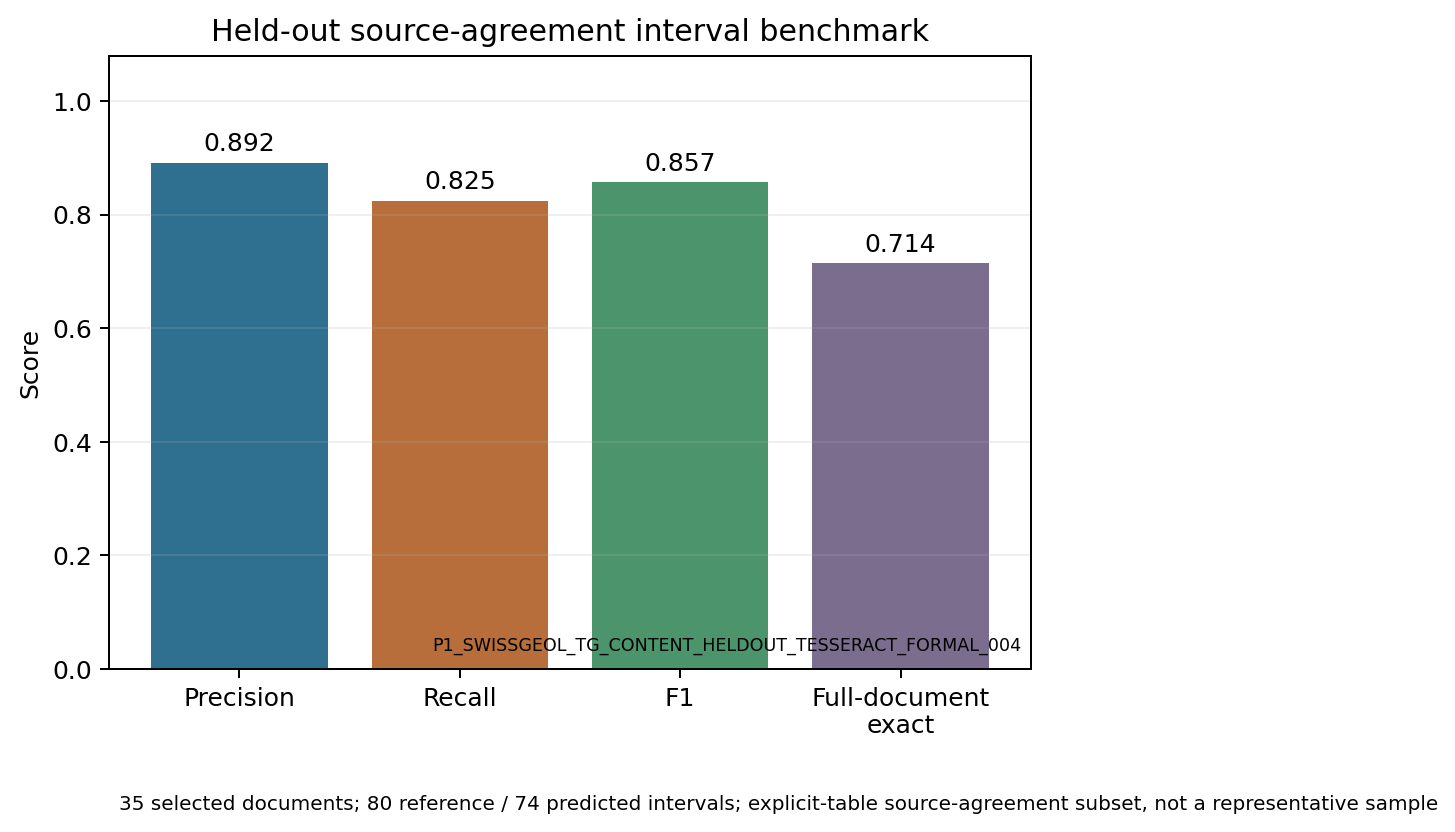
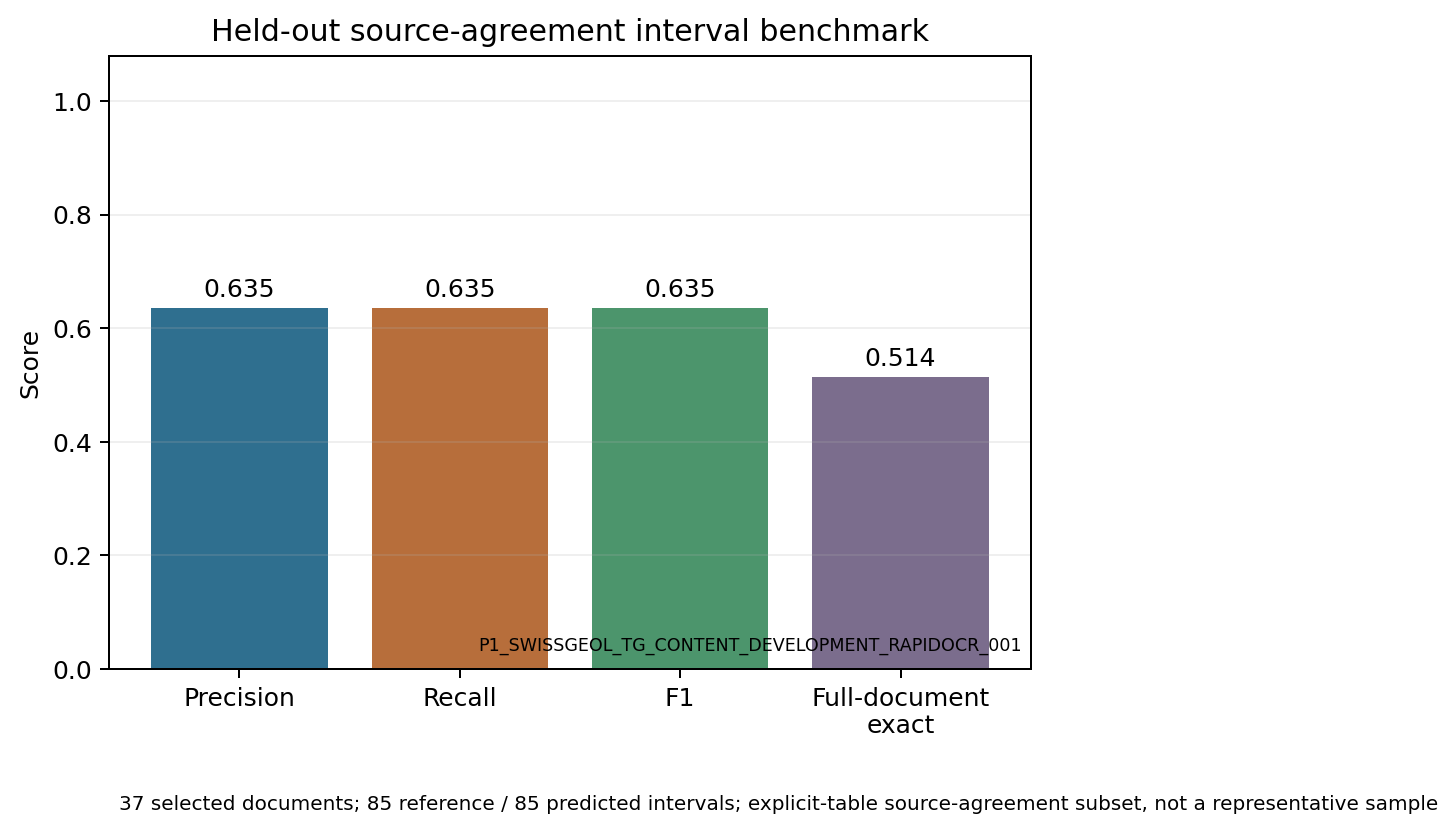
exp: add cross-backend interval and selective confidence evidence

diff --git a/src/geologparser/paper_artifacts.py b/src/geologparser/paper_artifacts.py
@@ -387,6 +387,7 @@ def paper2_table(entries: list[dict], repository_root: Path) -> str:
     authoritative_rows = []
     interval_method_rows = []
     secondary_ablation_rows = []
+    selective_rows = []
     for entry in entries:
         metrics = json.loads((repository_root / entry["result_path"] / "metrics.json").read_text())
         if metrics.get("scope") == "authoritative-metadata consensus/abstention evaluation":
@@ -427,6 +428,20 @@ def paper2_table(entries: list[dict], repository_root: Path) -> str:
                     str(values["changed_document_count"]),
                     entry["paper_eligibility"],
                 ]) + " |")
+        if metrics.get("scope") == "authoritative-interval selective-confidence secondary analysis":
+            abstain = metrics["operational_policies"]["abstain_needs_review"]
+            peer = metrics["operational_policies"]["require_peer_exact_agreement"]
+            selective_rows.append("| " + " | ".join([
+                entry["experiment_id"],
+                number(metrics["brier_score"]),
+                number(metrics["expected_calibration_error_5_bin"]),
+                f'{abstain["accepted_documents"]}/{abstain["total_documents"]} ({abstain["coverage"]:.3f})',
+                number(abstain["document_exact"]["value"]),
+                number(abstain["interval_metrics"]["interval_f1"]["value"]),
+                f'{peer["accepted_documents"]}/{peer["total_documents"]} ({peer["coverage"]:.3f})',
+                number(peer["interval_metrics"]["interval_f1"]["value"]),
+                entry["paper_eligibility"],
+            ]) + " |")
         if "vlm_schema_valid_count" in metrics:
             audit_rows.append("| " + " | ".join([
                 entry["experiment_id"], str(metrics["case_count"]),
@@ -491,6 +506,12 @@ def paper2_table(entries: list[dict], repository_root: Path) -> str:
         "|---|---|---:|---:|---:|---:|---:|---|",
         *secondary_ablation_rows, "",
         "This component analysis was specified and executed after the full v2 held-out result was observed. It is descriptive evidence on frozen artifacts, not an independent confirmatory experiment; change counts for the legacy parser are parser differences, not automatic corrections.",
+        "",
+        "### Secondary selective-confidence and abstention analysis", "",
+        "| Experiment | Brier | ECE (5-bin) | Abstain review coverage | Abstain document exact | Abstain interval F1 | Peer-agreement coverage | Peer-agreement interval F1 | Eligibility |",
+        "|---|---:|---:|---:|---:|---:|---:|---:|---|",
+        *selective_rows, "",
+        "The confidence lookup is fit on development-only outcomes and applied to held-out outputs. This table is a secondary post-result analysis with small denominators; it is not a confirmatory calibration estimate.",
         "",
         "### Public ROI engineering audit (no Ground Truth)", "",
         "| Experiment | Cases | VLM JSON-valid | VLM uncertain | OCR/VLM numeric-agreement cases | Accept proposals | Needs review | VLM s/ROI | Peak GiB | Eligibility |",

diff --git a/scripts/build_source_verification_ledger.py b/scripts/build_source_verification_ledger.py
@@ -35,6 +35,8 @@ LOCAL_DIRS = {
     "bgs_onshore_borehole_records": DATA_ROOT / "datasets/public/bgs_authoritative_metadata_v001",
     "swissgeol_thurgau_paired_v001": DATA_ROOT / "datasets/public/swissgeol_thurgau_paired_v002",
     "swissgeol_thurgau_paired_v003": DATA_ROOT / "datasets/public/swissgeol_thurgau_paired_v003",
+    "swissgeol_stgallen_paired_v001": DATA_ROOT / "datasets/public/swissgeol_stgallen_paired_v001",
+    "swissgeol_bern_paired_v001": DATA_ROOT / "datasets/public/swissgeol_bern_paired_v001",
     "mendeley_binhai_cptu_borehole_v002": DATA_ROOT / "datasets/public/mendeley_binhai_cptu_borehole_v002",
     "mendeley_coal_boreholes_602_v001": DATA_ROOT / "datasets/public/mendeley_coal_boreholes_602_v001",
 }
@@ -86,7 +88,10 @@ def evidence_paths(source_id: str, local_dir: Path | None) -> list[str]:
         ])
     if source_id == "swissgeol_boreholes_dataextraction_examples_v001":
         paths.append("/data/GeoLogParser/artifacts/source_surveys/swissgeol_example_groundtruth_audit_v001.json")
-    if source_id in {"swissgeol_thurgau_paired_v001", "swissgeol_thurgau_paired_v003"} and local_dir and local_dir.exists():
+    if source_id in {
+        "swissgeol_thurgau_paired_v001", "swissgeol_thurgau_paired_v003",
+        "swissgeol_stgallen_paired_v001", "swissgeol_bern_paired_v001",
+    } and local_dir and local_dir.exists():
         paths.extend(str(local_dir / name) for name in ("dataset.json", "manifest.jsonl") if (local_dir / name).is_file())
         paths.extend(
             str(path) for pattern in ("pairing_audit_*.jsonl", "pairing_audit_summary_*.json", "gold_interval_manifest_*.jsonl")

diff --git a/scripts/update_status.py b/scripts/update_status.py
@@ -96,7 +96,7 @@ def main() -> None:
         "## Paper status",
         "",
         "- Paper I: `RESULTS_AVAILABLE` for a 35-document/80-interval PDF-content-group held-out authoritative benchmark, an earlier incremental held-out test, authoritative-metadata runs, and explicitly named machine-Silver agreement runs; representative multi-source/source-disjoint interval benchmark `NOT COMPLETED`.",
-        "- Paper II: `RESULTS_AVAILABLE` for a real authoritative-metadata abstention study, a controlled Synthetic method ablation, the negative v1 held-out interval test, a positive frozen v2 held-out interval test with F1 0.857 to 0.921 and FCR 0/4, and a secondary frozen-artifact parser/acceptance analysis; broader multimodal constraint attribution and larger-sample FCR estimation `NOT COMPLETED`.",
+        "- Paper II: `RESULTS_AVAILABLE` for a real authoritative-metadata abstention study, a controlled Synthetic method ablation, the negative v1 held-out interval test, a positive frozen v2 held-out interval test with F1 0.857 to 0.921 and FCR 0/4, a secondary frozen-artifact parser/acceptance analysis, and a development-fitted selective-confidence analysis; broader multimodal constraint attribution and larger-sample FCR estimation `NOT COMPLETED`.",
         "- Paper III: `RESULTS_AVAILABLE` for a real structured-source controlled spatial comparison and controlled Synthetic downstream comparison; image-derived real-site comparison `NOT COMPLETED`.",
         "",
         "## Boundary",

diff --git a/papers/paper1/manuscript.md b/papers/paper1/manuscript.md
@@ -2,7 +2,7 @@
 
 ## Abstract
 
-Legacy borehole logs encode coordinates, elevations, interval boundaries, and geological descriptions in heterogeneous tables, scans, and drawings. Existing OCR scores do not establish whether these records can be converted into reliable databases, and page-level random splits can leak project templates. We define a provenance-bearing extraction task, a panel-aware annotation unit, leakage-resistant split protocols, a four-level evaluation framework, degradation metadata, and an error taxonomy. A 31-document/106-page British Geological Survey authoritative-metadata sub-benchmark provides a real-source comparison at matched 300-DPI rendering: Tesseract and RapidOCR reached borehole-ID exact matches of 25/31 and 31/31 respectively, but neither recovered final depth reliably. A controlled first-page robustness extension evaluates 217 derived images (31 scans × 7 profiles) for ID/X/Y only. Two Swissgeol successor freezes contain 256 public PDF/database pairs and 1,259 official intervals; deterministic source-table auditing retains 101 documents/241 source-agreement intervals. The current PDF-content-group held-out test contains 35 documents/80 intervals. A frozen reference-independent 250-DPI Tesseract baseline predicted 74 intervals, of which 66 matched within ±0.05 m (precision 0.892, recall 0.825, F1 0.857); 25/35 documents were completely exact. Matched top- and bottom-boundary MAE were both 0.000 m, but 14 missing and eight spurious intervals expose structural failure that conditional boundary MAE conceals. Source rights remain pending pre-submission verification, and lithology is excluded. The broader rights-cleared multilingual interval/lithology benchmark, source-disjoint comparison, and human agreement remain `TBD`. <!-- evidence:p1.swissgeol_authoritative_interval -->
+Legacy borehole logs encode coordinates, elevations, interval boundaries, and geological descriptions in heterogeneous tables, scans, and drawings. Existing OCR scores do not establish whether these records can be converted into reliable databases, and page-level random splits can leak project templates. We define a provenance-bearing extraction task, a panel-aware annotation unit, leakage-resistant split protocols, a four-level evaluation framework, degradation metadata, and an error taxonomy. A 31-document/106-page British Geological Survey authoritative-metadata sub-benchmark provides a real-source comparison at matched 300-DPI rendering: Tesseract and RapidOCR reached borehole-ID exact matches of 25/31 and 31/31 respectively, but neither recovered final depth reliably. A controlled first-page robustness extension evaluates 217 derived images (31 scans × 7 profiles) for ID/X/Y only. Two Swissgeol successor freezes contain 256 public PDF/database pairs and 1,259 official intervals; deterministic source-table auditing retains 101 documents/241 source-agreement intervals. The current PDF-content-group held-out test contains 35 documents/80 intervals. On that held-out set, Tesseract predicted 74 intervals and matched 66 within ±0.05 m (precision 0.892, recall 0.825, F1 0.857), whereas RapidOCR predicted 79 and matched 54 (precision 0.684, recall 0.675, F1 0.679). Tesseract reached complete-document exactness of 25/35 and RapidOCR 17/35; matched boundary MAE was 0.000 m for both engines, while unmatched intervals exposed the structural failure hidden by conditional MAE. Source rights remain pending pre-submission verification, and lithology is excluded. The broader rights-cleared multilingual interval/lithology benchmark, source-disjoint interval Gold, and human agreement remain `TBD`. <!-- evidence:p1.swissgeol_authoritative_interval -->
 
 ## 1. Introduction
 
@@ -53,7 +53,7 @@ Real and synthetic degradation cover resolution, blur, noise, skew, JPEG compres
 
 ## 5. Baselines
 
-B1 OCR+regex; B2 OCR+LLM; B3 OCR+layout+rules; B4 zero-shot VLM; B5 few-shot VLM; B6 OCR+VLM fusion. Adapters and model revisions come from a registry. Current executed comparisons cover Tesseract+regex and RapidOCR+regex on 31 BGS documents, a held-out Tesseract interval-boundary test on 20 Swissgeol records, B2 text-only and B3 positioned-text paths on Padova, plus Apache-2.0 Qwen3-VL-4B at fixed revision `ebb281ec...` through local B4/B5 adapters. The Swissgeol B1 run renders every PDF page at 250 DPI, applies Tesseract `eng` with PSM 3, and conservatively parses explicit interval tables; native PDF text is not used for prediction. Its parsing policy was frozen on the v001 development records before the disjoint incremental v002 test was evaluated. B2 supplies only flattened PDF/OCR text to the language stack; B3 requires at least three distinct depth ranges in one repeated x-position bin and abstains when boundaries exist only as graphics. B4 uses greedy decoding and versioned prompt `vlm_extract_v002`; whole-image values are marked `VLM_UNGROUNDED`. B6 conservatively retains grounded evidence on disagreement and sends visual-only or conflicting fields to review. Formal multi-model interval and lithology comparisons remain `TBD`.
+ B1 OCR+regex; B2 OCR+LLM; B3 OCR+layout+rules; B4 zero-shot VLM; B5 few-shot VLM; B6 OCR+VLM fusion. Adapters and model revisions come from a registry. Current executed comparisons cover Tesseract+regex and RapidOCR+regex on 31 BGS documents, a held-out Tesseract and RapidOCR interval-boundary comparison on the frozen 35-document Swissgeol v003 set, a held-out Tesseract interval-boundary test on 20 Swissgeol records, B2 text-only and B3 positioned-text paths on Padova, plus Apache-2.0 Qwen3-VL-4B at fixed revision `ebb281ec...` through local B4/B5 adapters. The Swissgeol B1 runs render every PDF page at 250 DPI, use either Tesseract `eng` PSM 3 or RapidOCR/ONNX with frozen model hashes, and conservatively parse explicit interval tables; native PDF text is not used for prediction. The Tesseract policy was frozen on development records before the v003 held-out evaluation; RapidOCR is a separate backend comparison using the same parser and split. B2 supplies only flattened PDF/OCR text to the language stack; B3 requires at least three distinct depth ranges in one repeated x-position bin and abstains when boundaries exist only as graphics. B4 uses greedy decoding and versioned prompt `vlm_extract_v002`; whole-image values are marked `VLM_UNGROUNDED`. B6 conservatively retains grounded evidence on disagreement and sends visual-only or conflicting fields to review. Formal multi-model interval and lithology comparisons beyond these numeric boundary tracks remain `TBD`.
 
 ## 6. Evaluation
 
@@ -63,7 +63,7 @@ Error taxonomy includes OCR digit/character/decimal errors, layout/column/row er
 
 ## 7. Results
 
-The current authoritative interval estimate uses the v003 PDF-content-group held-out set with 35 documents and 80 numeric intervals, disjoint by record and PDF hash from the 37-document development partition. The frozen raster path predicted 74 intervals without reading official final depth or any other reference field. Sixty-six predictions matched within ±0.05 m, yielding micro precision 0.892, recall 0.825, and F1 0.857. Twenty-five of 35 documents were completely exact. Fourteen reference intervals were unmatched and eight predictions were spurious. Matched top- and bottom-boundary MAE were both 0.000 m. Mean wall time was 3.047 s/document on CPU. Earlier runs remain separated by evidential role: run 001 is oracle-conditioned, run 002 is development evidence, run 003 is the first 20-document incremental held-out estimate, and run 004 is the larger content-group held-out estimate reported here. The reference remains source-agreement-selected rather than representative of cross-source deployment. <!-- evidence:p1.swissgeol_authoritative_interval -->
+The current authoritative interval estimate uses the v003 PDF-content-group held-out set with 35 documents and 80 numeric intervals, disjoint by record and PDF hash from the 37-document development partition. Tesseract predicted 74 intervals without reading official final depth or any other reference field; 66 matched within ±0.05 m, yielding precision 0.892, recall 0.825, and F1 0.857, with 25/35 complete-document exact. RapidOCR used the identical raster resolution, parser, and split but predicted 79 intervals; 54 matched, giving precision 0.684, recall 0.675, and F1 0.679, with 17/35 complete-document exact. Both engines had 0.000 m matched top- and bottom-boundary MAE, but Tesseract left 14 reference intervals unmatched and emitted eight spurious intervals, while RapidOCR left 26 unmatched references and emitted 25 spurious intervals. Mean wall time was 3.047 s/document for Tesseract and 4.117 s/document for RapidOCR on CPU. Earlier runs remain separated by evidential role: run 001 is oracle-conditioned, run 002 is development evidence, run 003 is the first 20-document incremental held-out estimate, and run 004 is the larger content-group held-out estimate; RapidOCR run 005 is a backend comparison on the same frozen held-out set. The reference remains source-agreement-selected rather than representative of cross-source deployment. <!-- evidence:p1.swissgeol_authoritative_interval --> <!-- evidence:p1.swissgeol_authoritative_interval_rapidocr -->
 
 The authoritative-metadata track contains 31 official BGS scan PDFs (106 pages) paired by source record ID with official borehole reference, easting, northing, and catalogue length. At matched 300-DPI rendering, Tesseract recovered 25/31 borehole IDs, covered X/Y on 31/31 records with zero paired error, and produced no final-depth or interval value. RapidOCR recovered 31/31 borehole IDs and both coordinates with zero paired error, but covered final depth on only 1/31 records, and that prediction was 192.0 m for an official catalogue length of 58.52 m (absolute error 133.48 m); it emitted no intervals. Thus the apparent strength of identifier/coordinate extraction did not transfer to the engineering-critical depth field. A separate 150-DPI Tesseract run is retained as a resolution-sensitivity observation rather than included in the matched comparison. These results are real authoritative metadata comparisons, but the catalogue `LENGTH` field is treated only as a final-depth proxy and no interval or lithology reference exists. <!-- evidence:p1.bgs_metadata_tesseract31 --> <!-- evidence:p1.bgs_metadata_rapidocr31 -->
 
@@ -82,7 +82,7 @@ performance axis.
 
 ## 8. Discussion and Threats to Validity
 
-The BGS experiments demonstrate why coverage must accompany MAE: zero extracted final-depth values yield undefined MAE, not zero error. The matched 31-document comparison also exposes complementary critical failures: Tesseract made six ID errors while abstaining on final depth, whereas RapidOCR's sole depth prediction was a 133.48 m error. The controlled robustness extension shows that degradation sensitivity is backend-specific even when the reference fields are simple metadata: 3° skew was severe for Tesseract but not RapidOCR, while JPEG quality 30 was severe for RapidOCR. The larger Swissgeol held-out result shows a different metric hazard: zero MAE on 66 matched intervals coexisted with 14 missing and eight spurious intervals. Structural matching, complete-document exactness, and unmatched counts are therefore necessary alongside conditional boundary error. Because the Swissgeol reference was selected for source-table/database agreement and explicit parsability, and the BGS perturbations are synthetic transformations of first pages, the current evidence supports only narrow conclusions about omission-aware reporting and field-/perturbation-dependent reliability, not representative interval/lithology extraction or cross-source generalization.
+The BGS experiments demonstrate why coverage must accompany MAE: zero extracted final-depth values yield undefined MAE, not zero error. The matched 31-document comparison also exposes complementary critical failures: Tesseract made six ID errors while abstaining on final depth, whereas RapidOCR's sole depth prediction was a 133.48 m error. The controlled robustness extension shows that degradation sensitivity is backend-specific even when the reference fields are simple metadata: 3° skew was severe for Tesseract but not RapidOCR, while JPEG quality 30 was severe for RapidOCR. The Swissgeol held-out comparison shows a second metric hazard: zero MAE on matched boundaries coexisted with substantial omission and spurious-interval differences between engines. Structural matching, complete-document exactness, backend identity, and unmatched counts are therefore necessary alongside conditional boundary error. Because the Swissgeol reference was selected for source-table/database agreement and explicit parsability, the St. Gallen and Bern acquisitions had no complete explicit-table agreements, and the BGS perturbations are synthetic transformations of first pages, the current evidence supports only narrow conclusions about omission-aware reporting and field-/perturbation-dependent reliability, not representative interval/lithology extraction or cross-canton Gold generalization.
 
 Major threats are Chinese source rights, project/template diversity, annotation reliability, field missingness, model version drift, prompt instability, and benchmark leakage. The engineering audit also shows that valid JSON is not equivalent to valid geology: absolute elevations were confused with measured depths, producing inverted/inconsistent intervals detected by C1/C2/C4. Formal effects will be quantified or marked `TBD` rather than inferred.
 
@@ -92,7 +92,7 @@ Experiment IDs, Git commits, dataset/split/model/prompt versions, seed, hardware
 
 ## 10. Conclusion
 
-We present the executable definition and infrastructure for a provenance-aware heterogeneous borehole-log benchmark, report a real authoritative-metadata comparison that reveals severe field-dependent reliability, and establish a hash-bound PDF-content-group held-out interval test of 35 documents and 80 source-agreement intervals. The frozen reference-independent baseline achieved precision 0.892, recall 0.825, F1 0.857, and complete-document exactness of 25/35. Its zero matched-boundary MAE nevertheless coexisted with 14 missing and eight spurious intervals, demonstrating why structural errors and coverage must accompany conditional boundary error. A representative conclusion about multilingual interval/lithology performance, source-disjoint generalization, or random-split inflation remains `TBD` until the broader experiments are complete.
+We present the executable definition and infrastructure for a provenance-aware heterogeneous borehole-log benchmark, report real authoritative-metadata comparisons across two OCR backends, and establish a hash-bound PDF-content-group held-out interval test of 35 documents and 80 source-agreement intervals. Tesseract achieved F1 0.857 and RapidOCR F1 0.679 on the same reference-independent split; both had zero matched-boundary MAE, but their unmatched-interval profiles differed substantially. These results show why structural coverage and backend identity must accompany conditional numeric error. A representative conclusion about multilingual interval/lithology performance, source-disjoint interval Gold, or random-split inflation remains `TBD` until the broader experiments are complete.
 
 The repository's auto-generated [publication-readiness audit](../../docs/generated/publication_readiness.md)
 currently reports zero exportable human-GT annotations, two formal machine-Silver

diff --git a/papers/paper2/manuscript.md b/papers/paper2/manuscript.md
@@ -57,9 +57,11 @@ The frozen real-interval policy produced a negative held-out result. On 20 Swiss
 
 The independently frozen v2 policy improved the subsequent held-out result. On 35 documents and 80 source-agreement intervals, first-pass extraction matched 66 intervals from 74 predictions (precision 0.892, recall 0.825, F1 0.857) and was completely exact on 25 documents. After triggered rereading, 70 of 72 predictions matched (precision 0.972, recall 0.875, F1 0.921) and 29 documents were completely exact. Seven of ten incorrect documents triggered; four rereads were accepted and all four converted an incorrect document to an exact document, yielding correction success 4/4 and FCR 0/4. Five triggered documents were routed to review, including two of 25 correct first-pass documents. Three erroneous documents did not trigger, and three triggered erroneous documents remained uncorrected. The result therefore demonstrates a held-out benefit and safe accepted corrections for this test, while retaining substantial residual error and review burden. <!-- evidence:p2.swissgeol_v2_heldout_constraint_reread -->
 
+A secondary selective-confidence analysis was fitted only on the 37-document development partition and then applied to the 35-document held-out outputs. The development-fitted lookup produced Brier score 0.126, negative log-likelihood 0.421, and five-bin ECE 0.044 on the held-out documents. Abstaining on the five `NEEDS_REVIEW` cases retained 30/35 documents (coverage 0.857), increased document exactness from 29/35 to 27/30, and yielded interval precision 0.970, recall 0.928, and F1 0.948 on the retained subset. Requiring exact agreement between the final sequence and the independent RapidOCR sequence retained 14/35 documents (coverage 0.400) with 32/32 matched intervals (precision, recall, and F1 all 1.000). This analysis was specified after the primary held-out method result was observed, has small denominators, and is reported as secondary evidence rather than a confirmatory calibration claim. <!-- evidence:p2.selective_confidence_secondary -->
+
 A secondary component analysis was specified only after the full v2 held-out result had been observed and is therefore descriptive rather than independently confirmatory. Re-parsing the frozen PSM-3 text with the legacy normalization yielded F1 0.813 and 23/35 exact documents. The v2 parser without rereading reached F1 0.857 and 25/35 exact; combining the v2 parser with the old preservation-based acceptance rule reached F1 0.865 and 26/35 exact; full v2 reached F1 0.921 and 29/35 exact. These frozen-artifact comparisons indicate that both narrow OCR normalization and the complete-sequence consensus rule contributed to the final result. They still do not isolate the contribution of geological constraints, and legacy-parser differences are not automatic corrections. <!-- evidence:p2.swissgeol_v2_secondary_ablation -->
 
-See [generated/current_results.md](generated/current_results.md). One two-case public Padova engineering audit is indexed, but both source annotations remain `auto`; it is not a method-effect experiment. Qwen3-VL returned schema-valid numeric-token JSON for both ROIs, OCR and VLM shared at least one numeric candidate in both cases, and both decisions remained `NEEDS_REVIEW`; no proposal was accepted. Mean VLM generation time was 3.510 s/ROI and peak allocated GPU memory was 8.413 GiB. <!-- evidence:p2.roi_reread_audit --> Accuracy and false correction rate are undefined for that audit. The Swissgeol experiments provide two real held-out interval tests of frozen policies, including four accepted corrections in v2 and a secondary parser/acceptance analysis; broader multimodal ablations, direct geological-constraint attribution, calibration on real intervals, larger-sample FCR confidence bounds, and statistical tests remain `TBD`.
+See [generated/current_results.md](generated/current_results.md). One two-case public Padova engineering audit is indexed, but both source annotations remain `auto`; it is not a method-effect experiment. Qwen3-VL returned schema-valid numeric-token JSON for both ROIs, OCR and VLM shared at least one numeric candidate in both cases, and both decisions remained `NEEDS_REVIEW`; no proposal was accepted. Mean VLM generation time was 3.510 s/ROI and peak allocated GPU memory was 8.413 GiB. <!-- evidence:p2.roi_reread_audit --> Accuracy and false correction rate are undefined for that audit. The Swissgeol experiments provide two real held-out interval tests of frozen policies, including four accepted corrections in v2, a secondary parser/acceptance analysis, and a post-result selective-confidence analysis; broader multimodal ablations, direct geological-constraint attribution, larger-sample FCR confidence bounds, and confirmatory calibration remain `TBD`.
 
 ## 6. Failure Analysis
 

diff --git a/docs/status.md b/docs/status.md
@@ -1,7 +1,7 @@
 <!-- AUTO-GENERATED by scripts/update_status.py; evidence dashboard, not a paper result. -->
 # GeoLogParser Status
 
-Git commit: `706116f3e677be8986615a441ce9c8f8621f5e53`
+Git commit: `72c1570763e2559a0aefec7a5053bdbfd1ca8f14`
 
 ## Data tiers
 
@@ -12,7 +12,7 @@ Git commit: `706116f3e677be8986615a441ce9c8f8621f5e53`
 | Authoritative metadata | 4 runs | Official metadata paired with scans; no interval/lithology labels |
 | Silver | 18 | Machine-adjudicated candidate labels; not Gold |
 | Synthetic | 32 | Known programmatic labels; controlled experiments only |
-| Registry entries | 36 | Candidate sources, not page/interval counts |
+| Registry entries | 38 | Candidate sources, not page/interval counts |
 
 ## Automated compliance
 
@@ -22,21 +22,21 @@ Git commit: `706116f3e677be8986615a441ce9c8f8621f5e53`
 |---|---:|
 | ELIGIBLE | 16 |
 | ELIGIBLE_INTERNAL_ONLY | 0 |
-| AMBIGUOUS | 20 |
+| AMBIGUOUS | 22 |
 | EXCLUDE | 0 |
 
 ## Formal experiments
 
 | Paper | Controlled formal | Real formal | Indexed runs |
 |---|---:|---:|---:|
-| paper1 | 2 | 8 | 40 |
-| paper2 | 1 | 3 | 7 |
+| paper1 | 2 | 9 | 42 |
+| paper2 | 1 | 3 | 8 |
 | paper3 | 1 | 1 | 8 |
 
 ## Paper status
 
 - Paper I: `RESULTS_AVAILABLE` for a 35-document/80-interval PDF-content-group held-out authoritative benchmark, an earlier incremental held-out test, authoritative-metadata runs, and explicitly named machine-Silver agreement runs; representative multi-source/source-disjoint interval benchmark `NOT COMPLETED`.
-- Paper II: `RESULTS_AVAILABLE` for a real authoritative-metadata abstention study, a controlled Synthetic method ablation, the negative v1 held-out interval test, a positive frozen v2 held-out interval test with F1 0.857 to 0.921 and FCR 0/4, and a secondary frozen-artifact parser/acceptance analysis; broader multimodal constraint attribution and larger-sample FCR estimation `NOT COMPLETED`.
+- Paper II: `RESULTS_AVAILABLE` for a real authoritative-metadata abstention study, a controlled Synthetic method ablation, the negative v1 held-out interval test, a positive frozen v2 held-out interval test with F1 0.857 to 0.921 and FCR 0/4, a secondary frozen-artifact parser/acceptance analysis, and a development-fitted selective-confidence analysis; broader multimodal constraint attribution and larger-sample FCR estimation `NOT COMPLETED`.
 - Paper III: `RESULTS_AVAILABLE` for a real structured-source controlled spatial comparison and controlled Synthetic downstream comparison; image-derived real-site comparison `NOT COMPLETED`.
 
 ## Boundary
